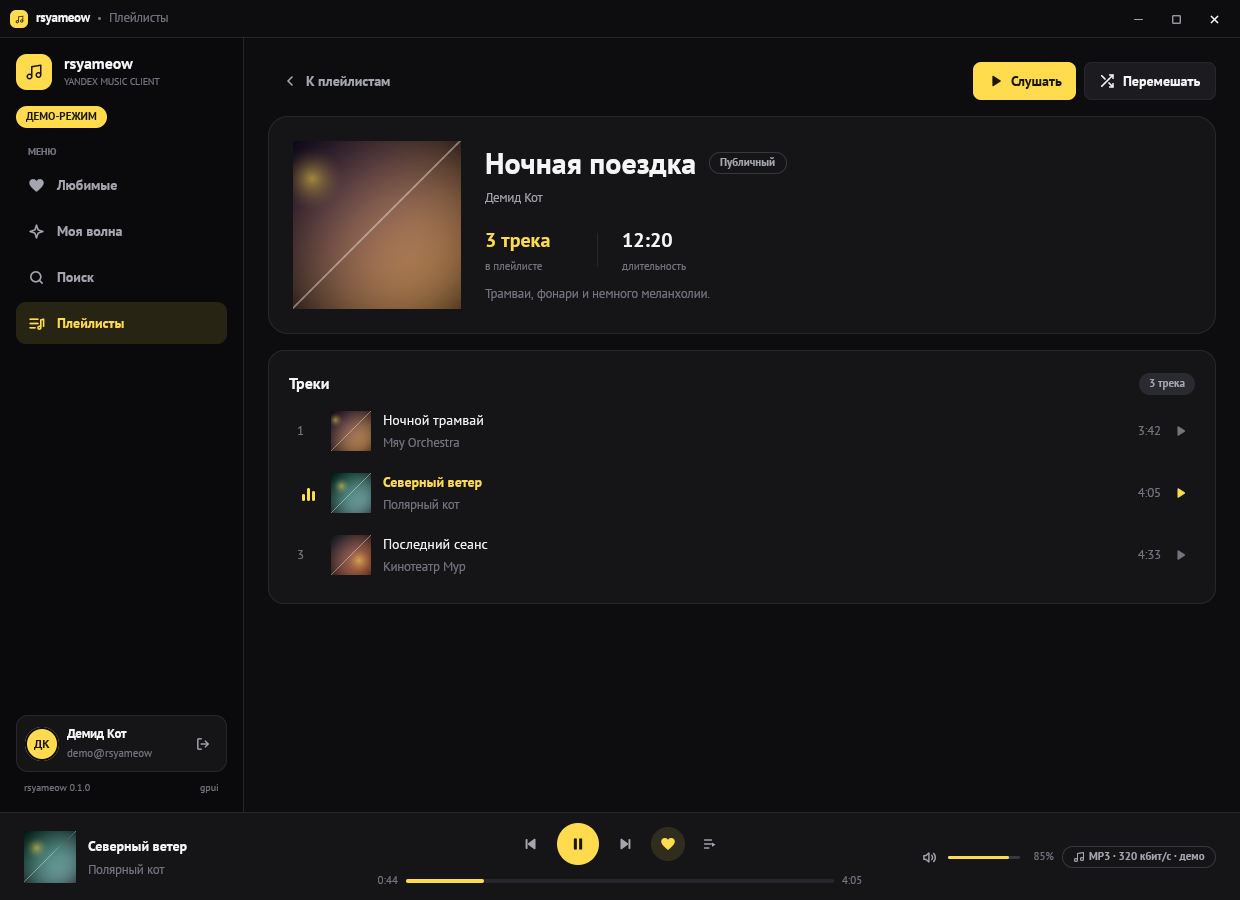
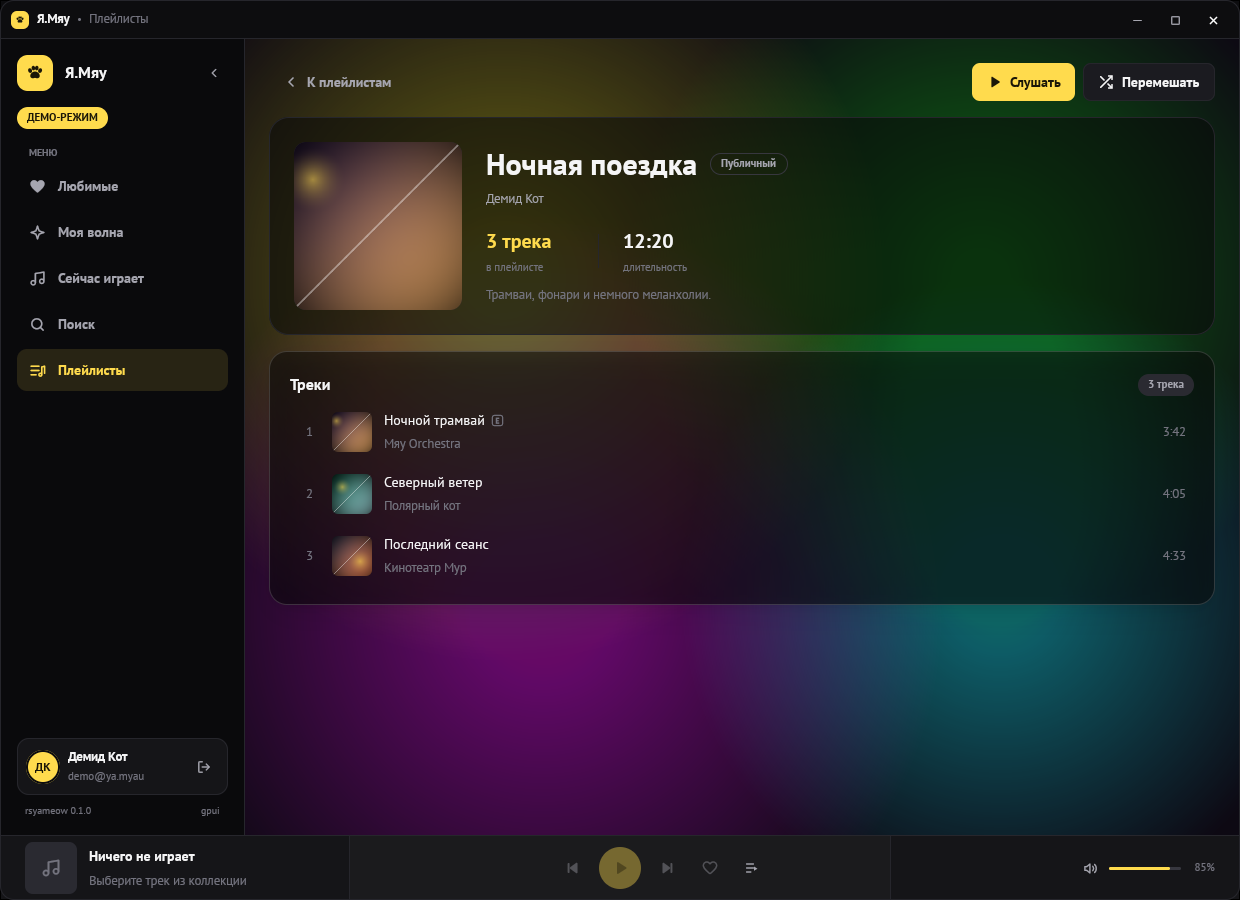
Add immersive backgrounds to playlist pages

diff --git a/crates/app/src/view/playlists.rs b/crates/app/src/view/playlists.rs
@@ -27,6 +27,13 @@ impl RootView {
         let loading = self.playlists.loading;
         let loaded = self.playlists.loaded;
         let error = self.playlists.error.clone();
+        let palette = items
+            .first()
+            .map(|playlist| self.playlist_palette(playlist))
+            .unwrap_or_else(default_palette);
+        let backdrop = items
+            .first()
+            .and_then(|playlist| self.playlist_backdrop(playlist));
 
         let header = div()
             .flex()
@@ -103,7 +110,7 @@ impl RootView {
 
         if loading && items.is_empty() {
             body = body.child(
-                card(theme)
+                glass_card(theme)
                     .items_center()
                     .py(px(space::XXL))
                     .child(Spinner::new().size(24.0).color(theme.colors.accent))
@@ -153,7 +160,7 @@ impl RootView {
                     .gap(px(space::SM))
                     .p(px(space::SM))
                     .rounded(px(14.0))
-                    .bg(theme.colors.surface)
+                    .bg(gpui::rgba(0x0808088C))
                     .border_1()
                     .border_color(theme.colors.border)
                     .cursor_pointer()
@@ -200,16 +207,15 @@ impl RootView {
             body = body.child(grid);
         }
 
-        div()
-            .flex()
-            .flex_col()
-            .flex_1()
-            .min_w(px(0.0))
-            .h_full()
-            .id("playlists-scroll")
-            .overflow_y_scroll()
-            .child(
-                div().w_full().flex().justify_center().child(
+        immersive_scroll_page(
+            palette,
+            backdrop,
+            "playlists-scroll",
+            div()
+                .w_full()
+                .flex()
+                .justify_center()
+                .child(
                     div()
                         .w_full()
                         .max_w(px(1180.0))
@@ -226,9 +232,9 @@ impl RootView {
                                 .text_color(theme.colors.text_muted)
                                 .child("Плейлисты загружаются из вашей медиатеки Яндекс Музыки."),
                         ),
-                ),
-            )
-            .into_any_element()
+                )
+                .into_any_element(),
+        )
     }
 
     pub(crate) fn playlist_detail_content(
@@ -247,6 +253,8 @@ impl RootView {
         };
 
         let cover = self.playlist_cover_image(&playlist);
+        let palette = self.playlist_palette(&playlist);
+        let backdrop = self.playlist_backdrop(&playlist);
         let title = playlist.display_title().to_string();
         let owner = playlist
             .owner
@@ -315,7 +323,7 @@ impl RootView {
             .gap(px(space::XL))
             .p(px(space::XL))
             .rounded(px(20.0))
-            .bg(theme.colors.surface)
+            .bg(gpui::rgba(0x0808088C))
             .border_1()
             .border_color(theme.colors.border)
             .child(playlist_cover(theme, cover, 168.0).w(px(168.0)))
@@ -401,7 +409,7 @@ impl RootView {
 
         if loading {
             body = body.child(
-                card(theme)
+                glass_card(theme)
                     .items_center()
                     .py(px(space::XXL))
                     .child(Spinner::new().size(24.0).color(theme.colors.accent))
@@ -420,7 +428,7 @@ impl RootView {
                 "Добавьте треки в плейлист в Яндекс Музыке и обновите страницу.",
             ));
         } else {
-            let mut list = card(theme).child(
+            let mut list = glass_card(theme).child(
                 div()
                     .flex()
                     .items_center()
@@ -480,16 +488,15 @@ impl RootView {
             body = body.child(list);
         }
 
-        div()
-            .flex()
-            .flex_col()
-            .flex_1()
-            .min_w(px(0.0))
-            .h_full()
-            .id("playlist-detail-scroll")
-            .overflow_y_scroll()
-            .child(
-                div().w_full().flex().justify_center().child(
+        immersive_scroll_page(
+            palette,
+            backdrop,
+            "playlist-detail-scroll",
+            div()
+                .w_full()
+                .flex()
+                .justify_center()
+                .child(
                     div()
                         .w_full()
                         .max_w(px(1180.0))
@@ -500,9 +507,33 @@ impl RootView {
                         .child(header)
                         .child(hero)
                         .child(body),
-                ),
-            )
-            .into_any_element()
+                )
+                .into_any_element(),
+        )
+    }
+
+    pub(crate) fn playlist_palette(&self, playlist: &Playlist) -> (Rgba, Rgba) {
+        let key = format!("playlist-{}", playlist.playlist_id());
+        self.track_palettes
+            .get(&key)
+            .copied()
+            .or_else(|| {
+                playlist
+                    .tracks
+                    .first()
+                    .and_then(|short| self.track_palettes.get(&short.id).copied())
+            })
+            .unwrap_or_else(default_palette)
+    }
+
+    pub(crate) fn playlist_backdrop(&self, playlist: &Playlist) -> Option<Arc<Image>> {
+        let key = format!("playlist-{}", playlist.playlist_id());
+        self.track_backdrops.get(&key).cloned().or_else(|| {
+            playlist
+                .tracks
+                .first()
+                .and_then(|short| self.track_backdrops.get(&short.id).cloned())
+        })
     }
 
     pub(crate) fn playlist_cover_image(&self, playlist: &Playlist) -> Option<Arc<Image>> {

diff --git a/crates/app/src/app/playlists.rs b/crates/app/src/app/playlists.rs
@@ -89,8 +89,12 @@ impl RootView {
                 if id.is_empty() {
                     continue;
                 }
+                let palette_key = format!("playlist-{id}");
                 let already = this
-                    .update(cx, |this, _| this.playlist_covers.contains_key(&id))
+                    .update(cx, |this, _| {
+                        this.playlist_covers.contains_key(&id)
+                            && this.track_palettes.contains_key(&palette_key)
+                    })
                     .unwrap_or(true);
                 if already {
                     continue;
@@ -105,6 +109,8 @@ impl RootView {
                 let Some(bytes) = bytes else {
                     continue;
                 };
+                let palette = cover_palette(&bytes);
+                let backdrop = super::cover_art::blurred_cover(&bytes);
                 let Some(image) = decode_image(bytes) else {
                     continue;
                 };
@@ -112,6 +118,12 @@ impl RootView {
                     .update(cx, |this, cx| {
                         if this.playlists.epoch != epoch {
                             return false;
+                        }
+                        if let Some(palette) = palette {
+                            this.track_palettes.insert(palette_key.clone(), palette);
+                        }
+                        if let Some(backdrop) = backdrop {
+                            this.track_backdrops.insert(palette_key.clone(), backdrop);
                         }
                         this.playlist_covers.insert(id, image);
                         cx.notify();

diff --git a/crates/app/src/view/mod.rs b/crates/app/src/view/mod.rs
@@ -16,7 +16,8 @@ use shell::{resize_handle, title_bar};
 
 use crate::app::{
     CloseQueue, CloseWindow, FocusSearch, NextTrack, PreviousTrack, QueueSource, RootView, Screen,
-    SearchKind, ToggleMute, TogglePlayback, ToggleQueue, plan_name, plus_until, registered_year,
+    SearchKind, ToggleMute, TogglePlayback, ToggleQueue, default_palette, plan_name, plus_until,
+    registered_year,
 };
 use crate::format;
 use gpui::{

diff --git a/crates/app/src/app/mod.rs b/crates/app/src/app/mod.rs
@@ -18,7 +18,7 @@ mod tests;
 mod track;
 mod wave;
 
-pub(crate) use cover_art::{cover_palette, decode_image, error_text};
+pub(crate) use cover_art::{cover_palette, decode_image, default_palette, error_text};
 pub(crate) use playback::step_index;
 pub(crate) use presentation::{plan_name, plus_until, registered_year};
 

diff --git a/README.md b/README.md
@@ -22,7 +22,8 @@
 - **Лайки.** Сердце в плеере и на странице трека ставит и снимает отметку
   «Мне нравится», обновляя коллекцию и профиль.
 - **Плейлисты.** Список плейлистов аккаунта с обложками, страница плейлиста
-  с треками, запуск всего плейлиста или вперемешку.
+  с треками, запуск всего плейлиста или вперемешку. Обе страницы используют
+  иммерсивный фон из обложки плейлиста.
 - **Очередь.** Боковая панель с текущим и предстоящими треками: можно перейти
   к любой композиции. Для длинных очередей показывается окно вокруг текущего
   трека, а названия догружаются по API.
